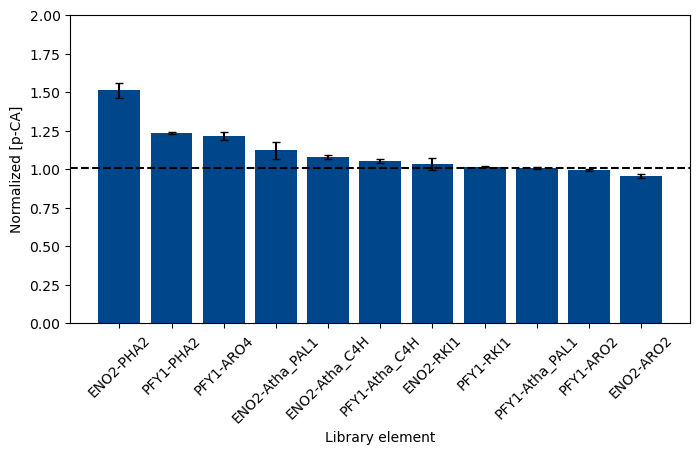
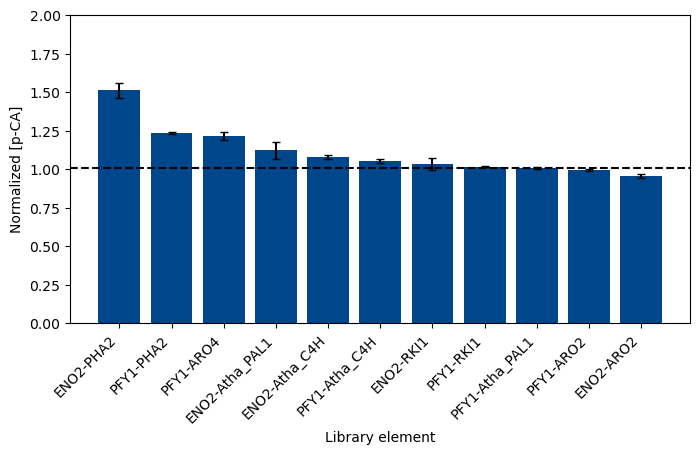
update_revision_1

diff --git a/scripts/AnalysisValidationRound.py b/scripts/AnalysisValidationRound.py
@@ -234,7 +234,7 @@ names = P1 + "-" + O1
 fig, ax1 = plt.subplots(figsize=(8, 4),)
 ax1.bar(names, average['mean_norm_pCA'], yerr=average['std_norm_pCA'], color="#00468BFF", capsize=3)
 ax1.set_ylim(0,2)
-ax1.set_xticklabels(names, rotation=45)
+ax1.set_xticklabels(names, rotation=45,ha="right")
 ax1.set_ylabel("Normalized [p-CA]")
 ax1.set_xlabel("Library element")
 ax1.axhline(1.01193953456951,linestyle="--", color="black")
